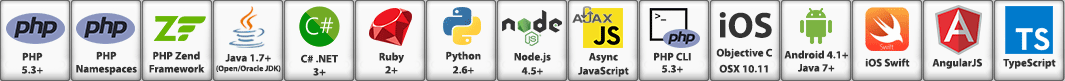
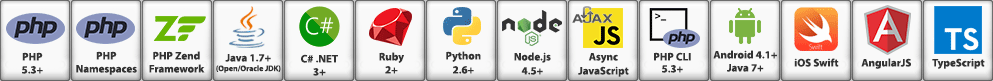
14.16.0 released. Dropped the ObjC client.

diff --git a/scripts/resources/client_libraries.js b/scripts/resources/client_libraries.js
@@ -1,6 +1,6 @@
 var fs = require('fs');
 var ejs = require('ejs');
-var version = 'v14.15.0';
+var version = 'v14.16.0';
 const MARKDOWN_DIR = __dirname + '/../../markdown';
 const TARGET = process.env.TARGET_API || 'ovp';
 const CLIENT_LANGS = {
@@ -14,7 +14,6 @@ const CLIENT_LANGS = {
   'NodeJS': 'nodejs',
   'AJAX': 'ajax',
   'CLI': 'cli',
-  'ObjectiveC': 'objc',
   'Android': 'android',
   'Swift': 'swift',
   'Angular': 'angular',
